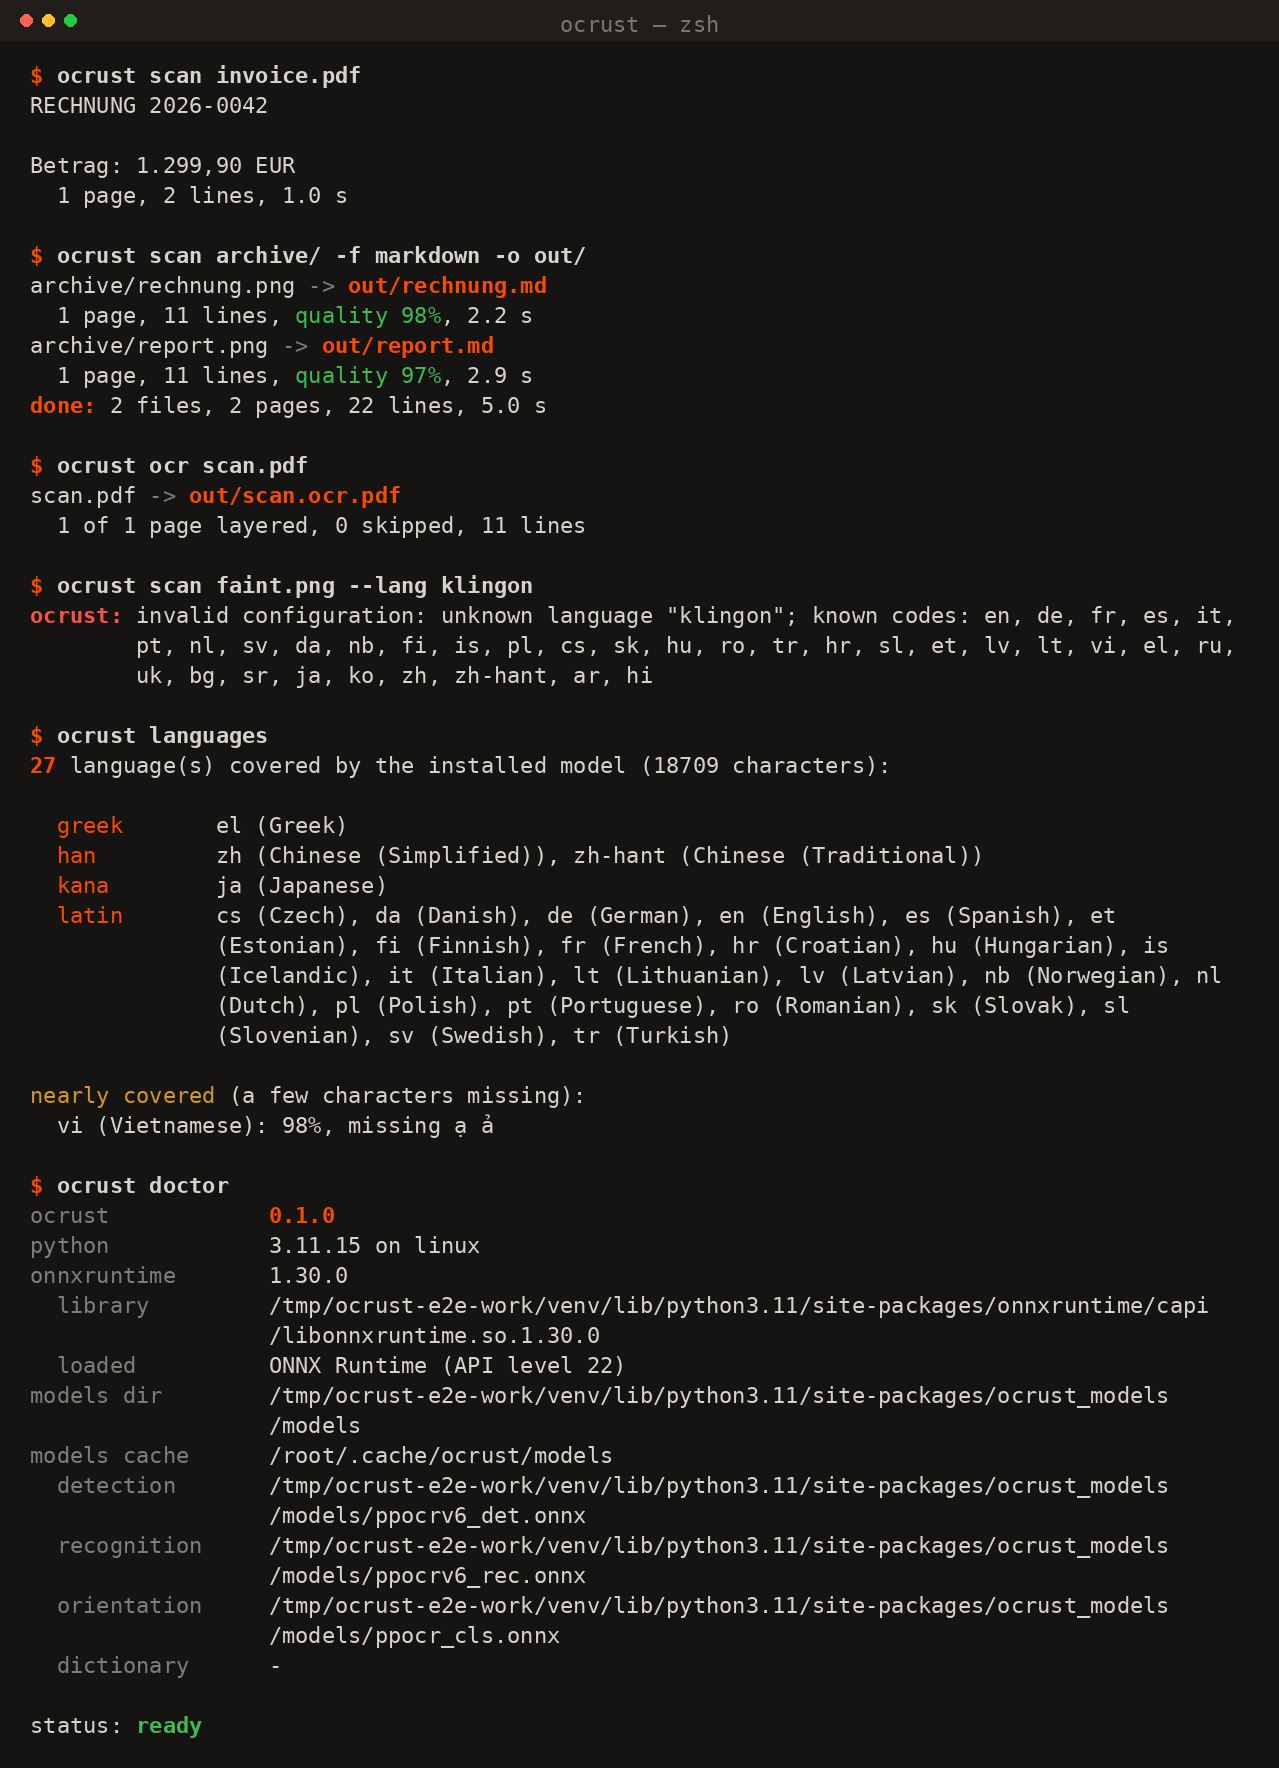
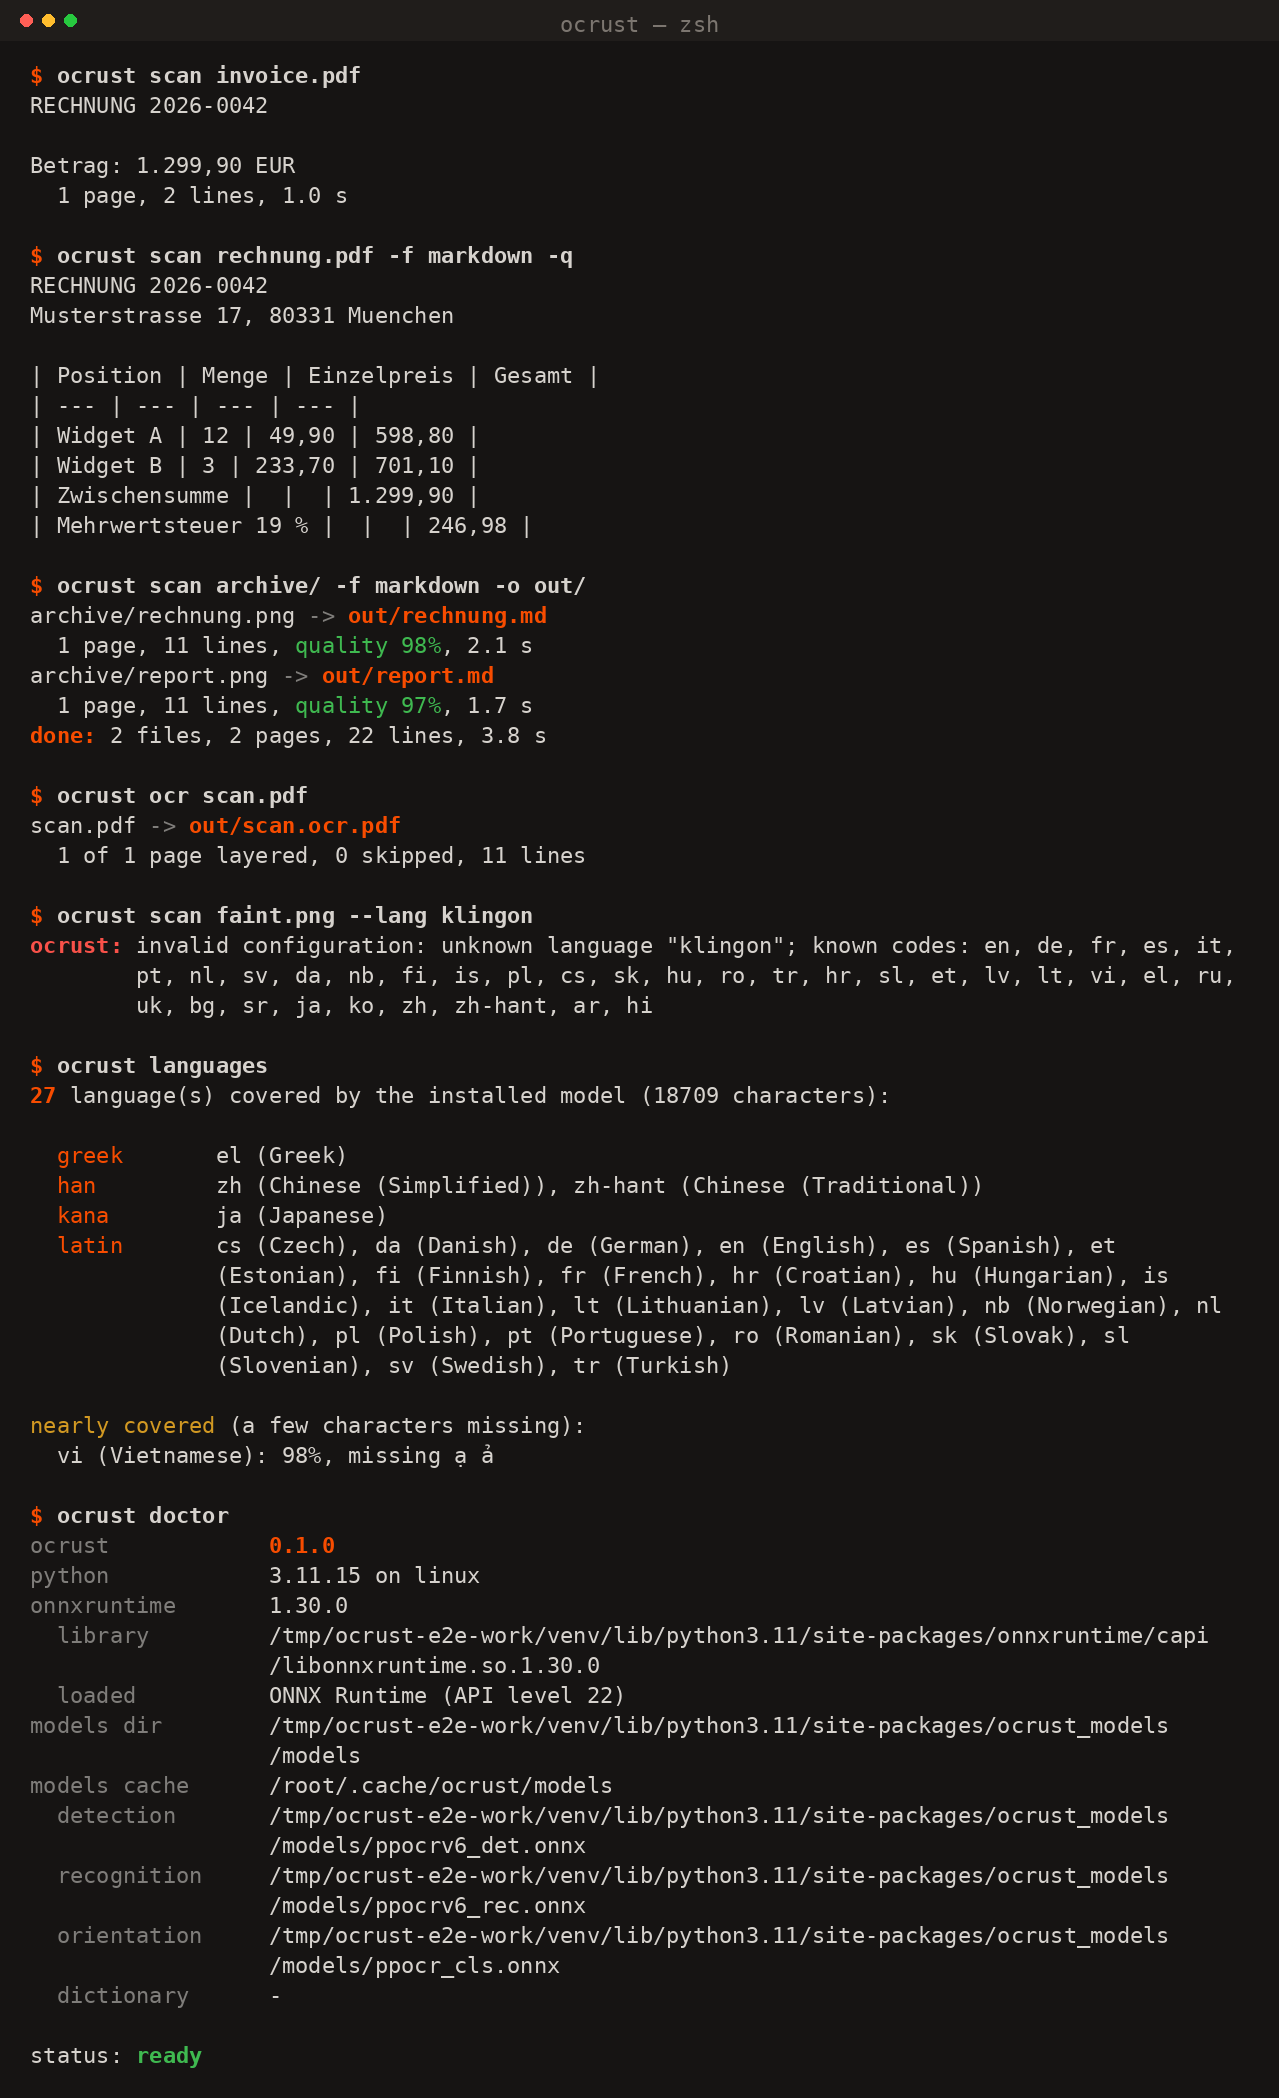
docs(ocrust): the screenshot shows a table, and --watch says what it cannot watch
`assets/cli.png` is real output again, now including a markdown scan of an
invoice so the feature people will look for is the second thing in the picture.
The first command shows a two-line document reporting its page and line counts
and no quality figure, which is the five-line guard doing its job.

`--watch inbox/ report.pdf` was silently ignoring the file and watching only the
directory. It says so now. The CHANGELOG's opening line also claimed everything
below it was a bug fix, which stopped being true three commits ago.

diff --git a/python/ocrust/cli.py b/python/ocrust/cli.py
@@ -745,18 +745,22 @@ def _scan_watching(
     written are remembered, so a file is scanned once; a file still being copied
     is left until its size stops changing, because half a PDF is not a PDF.
     """
-    watched = [p for p in requested if str(p) != STDIN]
-    if len(watched) != len(requested):
+    if any(str(p) == STDIN for p in requested):
         _fail("--watch reads directories, not stdin")
         return 2
-    folders = [p for p in watched if p.is_dir()]
+    folders = [p for p in requested if p.is_dir()]
     if not folders:
         _fail("--watch needs a directory to watch")
         return 2
+    # Watching a single file has nothing to wait for, and silently ignoring it
+    # would leave the user watching a directory they did not ask about.
+    for other in (p for p in requested if not p.is_dir()):
+        _fail(f"--watch needs a directory, and {other} is not one")
+        return 2
 
-    args._resolved_workers = _workers_for(args, 2)
+    args._resolved_workers = _workers_for(args, len(folders) + 1)
     engine = _engine_from_args(args)
-    destination = _destination(args, 2)
+    destination = _destination(args, len(folders))
     if destination is None:
         return 2
 

diff --git a/CHANGELOG.md b/CHANGELOG.md
@@ -2,10 +2,12 @@
 
 ## Unreleased
 
-Accuracy is unchanged: the corpus run reproduces mean CER 0.040, median 0.006,
-WER 0.120 and word recall 0.892 file for file, and a drawing's recognized text is
-byte-identical to 0.1.0's. Everything below is a bug that produced a wrong box, a
-wrong page, a crash or a build that would not compile.
+Accuracy is unchanged throughout: the corpus run reproduces mean CER 0.040,
+median 0.006, WER 0.120 and word recall 0.892 file for file, and a drawing's
+recognized text is byte-identical to 0.1.0's. What is new reads the same
+characters and does more with them; what changed is memory and output size; and
+every fix below is a bug that produced a wrong box, a wrong page, a crash or a
+build that would not compile.
 
 ### Changed
 
